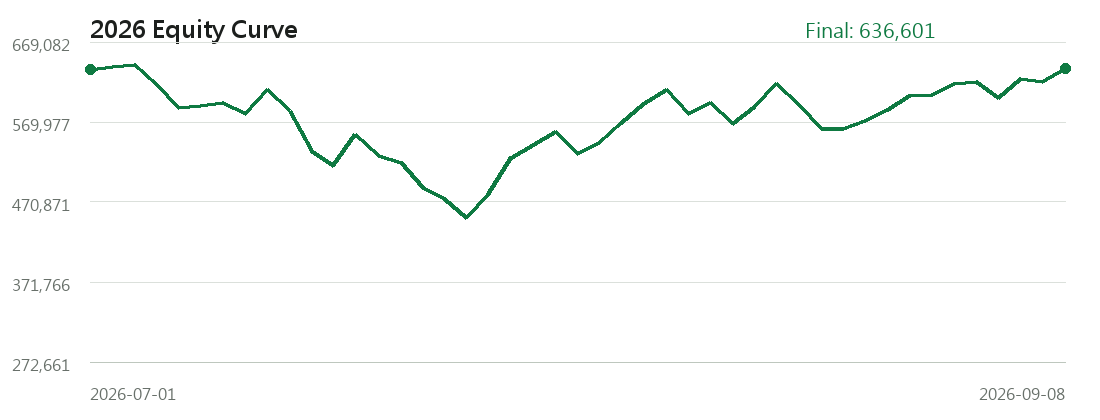
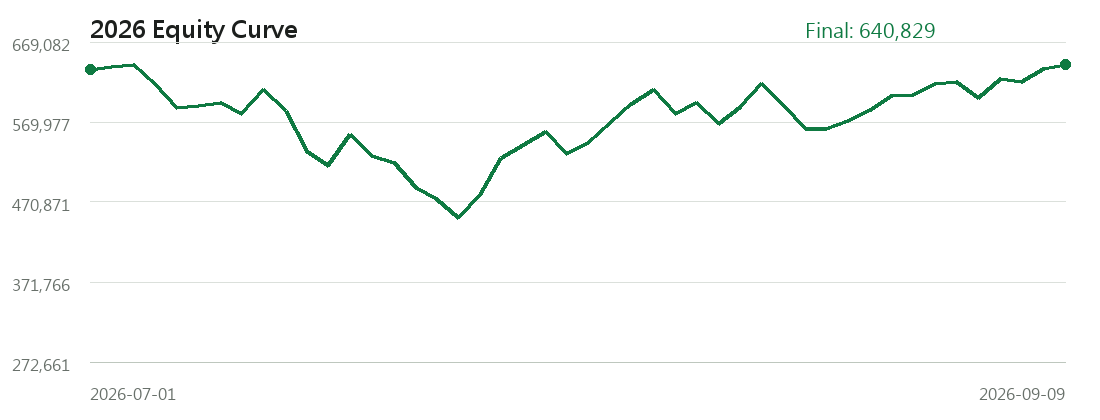
Update dashboard data

diff --git a/data.js b/data.js
@@ -1,5 +1,5 @@
 window.PUBLIC_FOLLOW_DATA = {
-  "generated_at": "2026-09-08T18:34:28.484527+08:00",
+  "generated_at": "2026-09-09T18:34:38.446363+08:00",
   "public_note": "Static follow dashboard only. Backend code, database, cache, and parameter search files are local-only.",
   "assumptions": {
     "initial_capital": 300000.0,
@@ -8,20 +8,20 @@ window.PUBLIC_FOLLOW_DATA = {
     "position_sizing": "Capital is split across up to 5 positions with integer-share sizing."
   },
   "data_status": {
-    "signal_date": "2026-09-08",
-    "latest_chip_date": "2026-09-08",
-    "latest_price_date": "2026-09-08",
-    "candidate_count": 1,
+    "signal_date": "2026-09-09",
+    "latest_chip_date": "2026-09-09",
+    "latest_price_date": "2026-09-09",
+    "candidate_count": 4,
     "warning": null
   },
   "metrics": {
     "initial_capital": 300000.0,
-    "final_value": 636601.2984176637,
+    "final_value": 640828.7984176637,
     "cash": -14824.20158233639,
-    "total_return_pct": 112.20043280588787,
-    "annualized_return_pct": 221.73589658720144,
+    "total_return_pct": 113.60959947255455,
+    "annualized_return_pct": 223.4408192087193,
     "start_date": "2026-01-16",
-    "end_date": "2026-09-08",
+    "end_date": "2026-09-09",
     "closed_trade_count": 51,
     "entry_count": 52,
     "open_position_count": 5,
@@ -300,6 +300,12 @@ window.PUBLIC_FOLLOW_DATA = {
       "equity": 636601.2984176637,
       "cash": -14824.20158233639,
       "position_count": 5
+    },
+    {
+      "date": "2026-09-09",
+      "equity": 640828.7984176637,
+      "cash": -14824.20158233639,
+      "position_count": 5
     }
   ],
   "holdings": [
@@ -309,11 +315,11 @@ window.PUBLIC_FOLLOW_DATA = {
       "quantity": 312,
       "entry_date": "2026-08-31",
       "entry_price": 390.5,
-      "current_price_date": "2026-09-08",
-      "current_price": 475.0,
-      "market_value": 148200.0,
-      "unrealized_return_pct": 21.63892445582587,
-      "holding_days": 8,
+      "current_price_date": "2026-09-09",
+      "current_price": 478.5,
+      "market_value": 149292.0,
+      "unrealized_return_pct": 22.535211267605625,
+      "holding_days": 9,
       "concept_tag_names": [
         "封測",
         "證券券商",
@@ -330,16 +336,20 @@ window.PUBLIC_FOLLOW_DATA = {
       "quantity": 253,
       "entry_date": "2026-09-01",
       "entry_price": 490.0,
-      "current_price_date": "2026-09-08",
-      "current_price": 515.0,
-      "market_value": 130295.0,
-      "unrealized_return_pct": 5.102040816326525,
-      "holding_days": 7,
+      "current_price_date": "2026-09-09",
+      "current_price": 533.0,
+      "market_value": 134849.0,
+      "unrealized_return_pct": 8.775510204081627,
+      "holding_days": 8,
       "concept_tag_names": [
         "RF前端/功率放大器",
         "證券券商",
+        "光纖傳輸/光通訊",
+        "光通訊模組",
         "塑膠原料/樹脂",
         "投資控股",
+        "矽光子/CPO",
+        "矽光子/光通訊",
         "網安/網路設備"
       ]
     },
@@ -349,11 +359,11 @@ window.PUBLIC_FOLLOW_DATA = {
       "quantity": 198,
       "entry_date": "2026-09-07",
       "entry_price": 630.0,
-      "current_price_date": "2026-09-08",
-      "current_price": 605.0,
-      "market_value": 119790.0,
-      "unrealized_return_pct": -3.9682539682539653,
-      "holding_days": 1,
+      "current_price_date": "2026-09-09",
+      "current_price": 610.0,
+      "market_value": 120780.0,
+      "unrealized_return_pct": -3.1746031746031744,
+      "holding_days": 2,
       "concept_tag_names": [
         "光通訊模組",
         "矽光子/CPO",
@@ -371,11 +381,11 @@ window.PUBLIC_FOLLOW_DATA = {
       "quantity": 497,
       "entry_date": "2026-09-08",
       "entry_price": 249.0,
-      "current_price_date": "2026-09-08",
-      "current_price": 236.5,
-      "market_value": 117540.5,
-      "unrealized_return_pct": -5.020080321285136,
-      "holding_days": 0,
+      "current_price_date": "2026-09-09",
+      "current_price": 236.0,
+      "market_value": 117292.0,
+      "unrealized_return_pct": -5.2208835341365445,
+      "holding_days": 1,
       "concept_tag_names": [
         "再生晶圓/晶圓服務",
         "證券券商",
@@ -394,11 +404,11 @@ window.PUBLIC_FOLLOW_DATA = {
       "quantity": 48,
       "entry_date": "2026-09-08",
       "entry_price": 2640.0,
-      "current_price_date": "2026-09-08",
-      "current_price": 2825.0,
-      "market_value": 135600.0,
-      "unrealized_return_pct": 7.007575757575757,
-      "holding_days": 0,
+      "current_price_date": "2026-09-09",
+      "current_price": 2780.0,
+      "market_value": 133440.0,
+      "unrealized_return_pct": 5.303030303030298,
+      "holding_days": 1,
       "concept_tag_names": [
         "證券券商",
         "投資控股",
@@ -410,38 +420,200 @@ window.PUBLIC_FOLLOW_DATA = {
     }
   ],
   "trade_plan": {
-    "sell_orders": [],
-    "buy_orders": [],
-    "total_sell_amount": 0,
-    "total_buy_amount": 0,
+    "sell_orders": [
+      {
+        "stock_id": "3374",
+        "company_name": "精材",
+        "quantity": 312,
+        "price": 478.5,
+        "amount": 149292.0,
+        "concept_tag_names": [
+          "封測",
+          "證券券商",
+          "投資控股",
+          "晶圓製程設備零組件",
+          "檢測設備/服務",
+          "測試驗證服務",
+          "半導體IP/設計服務"
+        ]
+      },
+      {
+        "stock_id": "2455",
+        "company_name": "全新",
+        "quantity": 253,
+        "price": 533.0,
+        "amount": 134849.0,
+        "concept_tag_names": [
+          "RF前端/功率放大器",
+          "證券券商",
+          "光纖傳輸/光通訊",
+          "光通訊模組",
+          "塑膠原料/樹脂",
+          "投資控股",
+          "矽光子/CPO",
+          "矽光子/光通訊",
+          "網安/網路設備"
+        ]
+      }
+    ],
+    "buy_orders": [
+      {
+        "stock_id": "3406",
+        "company_name": "玉晶光",
+        "quantity": 115,
+        "price": 1110.0,
+        "amount": 127650.0,
+        "action": "SELL_WEAKEST_BUY_CANDIDATE",
+        "entry_date": null,
+        "concept_tag_names": [
+          "證券券商",
+          "太陽能",
+          "投資控股",
+          "基礎產業:光電業"
+        ]
+      },
+      {
+        "stock_id": "6805",
+        "company_name": "富世達",
+        "quantity": 55,
+        "price": 2295.0,
+        "amount": 126225.0,
+        "action": "SELL_WEAKEST_BUY_CANDIDATE",
+        "entry_date": null,
+        "concept_tag_names": [
+          "證券券商",
+          "AI伺服器",
+          "工具機零組件",
+          "投資控股",
+          "晶圓製程設備零組件",
+          "系統整合/資服",
+          "基礎產業:電子零組件業"
+        ]
+      }
+    ],
+    "total_sell_amount": 284141.0,
+    "total_buy_amount": 253875.0,
     "starting_cash": -14824.20158233639,
-    "net_cash_change": 0,
-    "cash_after_plan": -14824.20158233639,
-    "needs_extra_cash": 14824.20158233639,
-    "remaining_cash": 0.0
+    "net_cash_change": 30266.0,
+    "cash_after_plan": 15441.79841766361,
+    "needs_extra_cash": 0.0,
+    "remaining_cash": 15441.79841766361
   },
   "today_candidates": [
     {
       "rank": 1,
-      "signal_date": "2026-09-08",
-      "stock_id": "6223",
-      "company_name": "旺矽",
-      "action": "WATCH_WEAKER_THAN_CURRENT_HOLDING",
-      "reference_price": 5795.0,
-      "target_amount": 127320.25968353273,
-      "suggested_quantity": 21,
-      "buy_amount": 121695.0,
+      "signal_date": "2026-09-09",
+      "stock_id": "3406",
+      "company_name": "玉晶光",
+      "action": "SELL_WEAKEST_BUY_CANDIDATE",
+      "reference_price": 1110.0,
+      "target_amount": 128165.75968353273,
+      "suggested_quantity": 115,
+      "buy_amount": 127650.0,
+      "sell_stock_id": "3374",
+      "sell_company_name": "精材",
+      "sell_quantity": 312,
+      "sell_current_price": 478.5,
+      "sell_market_value": 149292.0,
       "concept_tag_names": [
-        "晶圓製程設備零組件",
         "證券券商",
-        "PCB鑽針/探針",
-        "半導體設備",
-        "封測",
-        "工具機/自動化設備",
+        "太陽能",
         "投資控股",
+        "基礎產業:光電業"
+      ],
+      "sell_concept_tag_names": [
+        "封測",
+        "證券券商",
+        "投資控股",
+        "晶圓製程設備零組件",
         "檢測設備/服務",
+        "測試驗證服務",
+        "半導體IP/設計服務"
+      ],
+      "action_text": "換股買進"
+    },
+    {
+      "rank": 2,
+      "signal_date": "2026-09-09",
+      "stock_id": "6805",
+      "company_name": "富世達",
+      "action": "SELL_WEAKEST_BUY_CANDIDATE",
+      "reference_price": 2295.0,
+      "target_amount": 128165.75968353273,
+      "suggested_quantity": 55,
+      "buy_amount": 126225.0,
+      "sell_stock_id": "2455",
+      "sell_company_name": "全新",
+      "sell_quantity": 253,
+      "sell_current_price": 533.0,
+      "sell_market_value": 134849.0,
+      "concept_tag_names": [
+        "證券券商",
+        "AI伺服器",
+        "工具機零組件",
+        "投資控股",
+        "晶圓製程設備零組件",
+        "系統整合/資服",
+        "基礎產業:電子零組件業"
+      ],
+      "sell_concept_tag_names": [
+        "RF前端/功率放大器",
+        "證券券商",
+        "光纖傳輸/光通訊",
+        "光通訊模組",
+        "塑膠原料/樹脂",
+        "投資控股",
+        "矽光子/CPO",
+        "矽光子/光通訊",
+        "網安/網路設備"
+      ],
+      "action_text": "換股買進"
+    },
+    {
+      "rank": 3,
+      "signal_date": "2026-09-09",
+      "stock_id": "2436",
+      "company_name": "偉詮電",
+      "action": "WATCH_WEAKER_THAN_CURRENT_HOLDING",
+      "reference_price": 69.0,
+      "target_amount": 128165.75968353273,
+      "suggested_quantity": 1857,
+      "buy_amount": 128133.0,
+      "concept_tag_names": [
+        "證券券商",
+        "電源管理IC",
+        "工業電源/電源供應",
+        "房地產代銷",
+        "投資控股",
         "半導體IP/設計服務",
         "基礎產業:半導體業"
+      ],
+      "action_text": "觀察"
+    },
+    {
+      "rank": 4,
+      "signal_date": "2026-09-09",
+      "stock_id": "8112",
+      "company_name": "至上",
+      "action": "WATCH_WEAKER_THAN_CURRENT_HOLDING",
+      "reference_price": 86.5,
+      "target_amount": 128165.75968353273,
+      "suggested_quantity": 1481,
+      "buy_amount": 128106.5,
+      "concept_tag_names": [
+        "證券券商",
+        "利基型記憶體/Nor Flash",
+        "投資控股",
+        "百貨零售",
+        "石英元件",
+        "系統整合/資服",
+        "表面處理/塗佈材料",
+        "記憶體",
+        "零售通路",
+        "電子通路",
+        "食品飲料/通路",
+        "驅動IC/觸控IC",
+        "基礎產業:電子通路業"
       ],
       "action_text": "觀察"
     }
